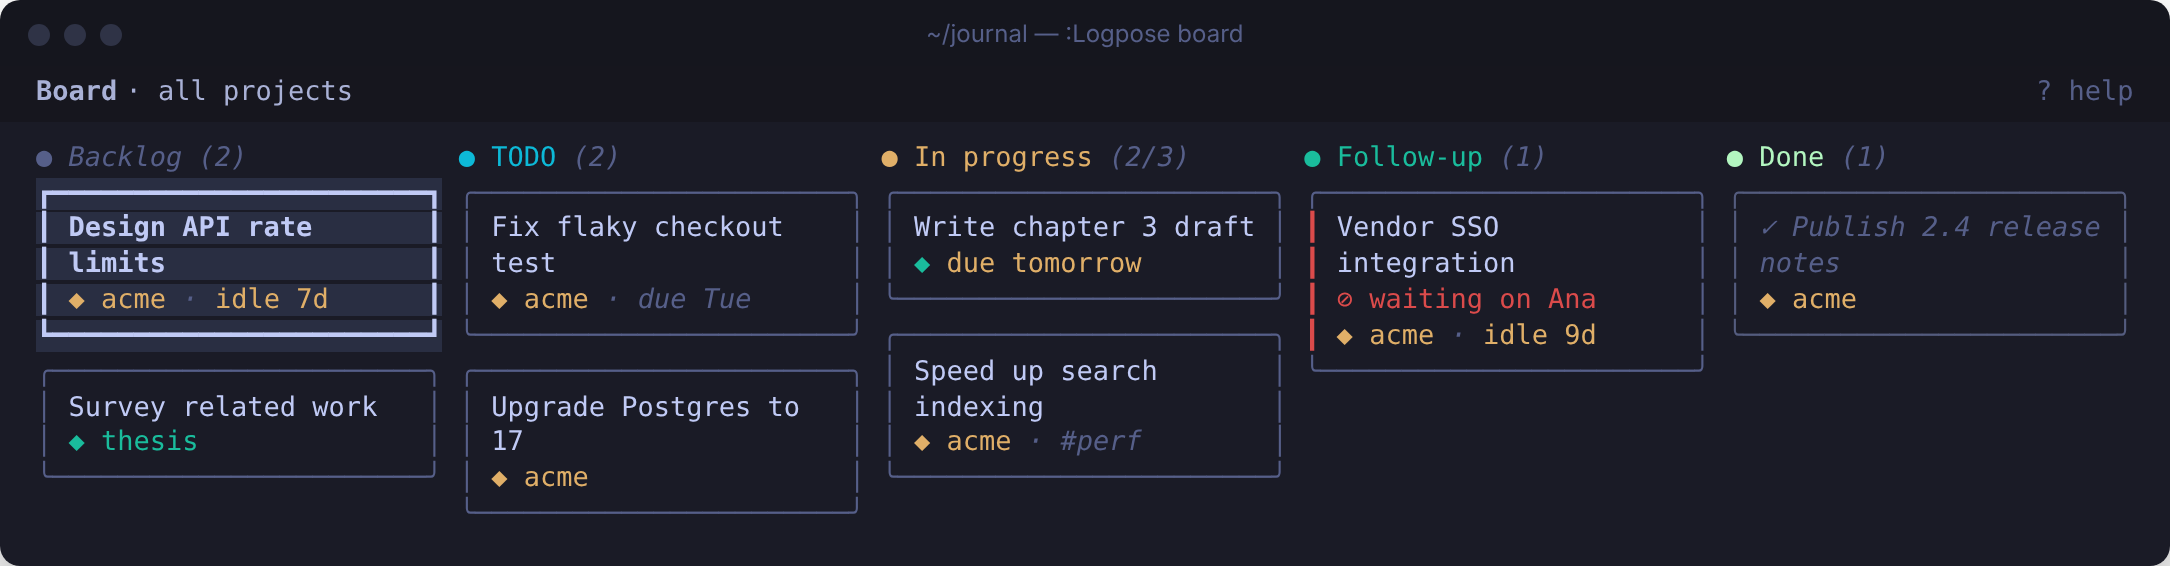
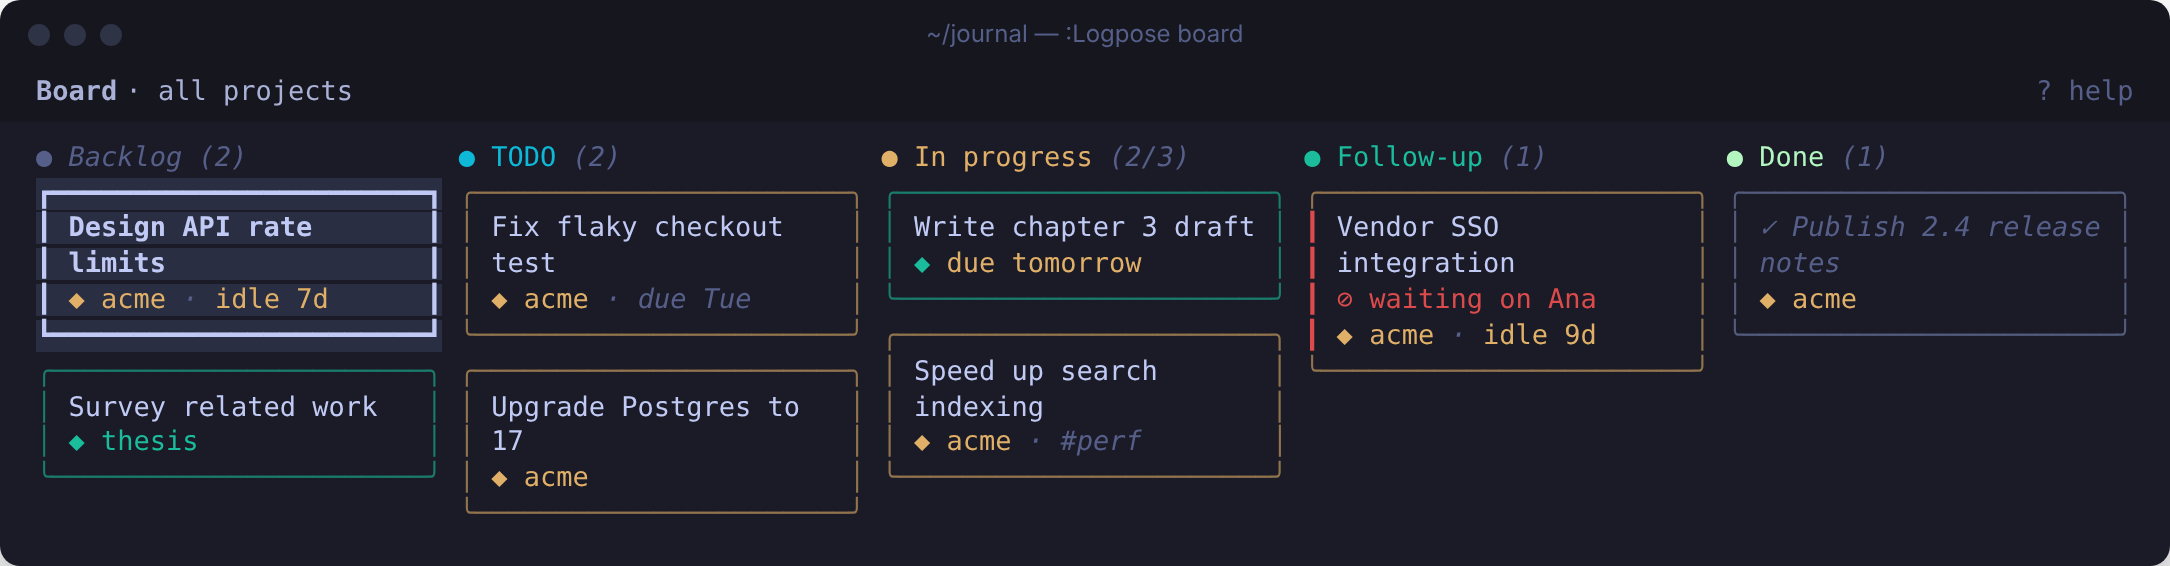
docs: project-tinted card borders

diff --git a/docs/SPEC.md b/docs/SPEC.md
@@ -64,7 +64,7 @@ capture/done, sprint-aware archives and reports.
 
 **Releases.** Annotated tags in `MAJOR.MINOR.PATCH` form (no `v` prefix). Each completed feature
 bumps the minor version (0.1.0 = F0+F1, 0.2.0 = F1.5, 0.3.0 = F1.6, 0.4.0 = F2, 0.5.0 = F2.1, 0.6.0 = F3, 0.7.0 = F4, 0.8.0 = F5, 0.9.0 = F6, 0.10.0 = O1, 0.11.0 = O2, 0.12.0 = O3, 0.13.0 = O4, 0.14.0 = O5, 0.15.0 = O6, 0.16.0 = F7,
-0.17.0 = F8, 0.18.0 = T1, 0.19.0 = live search and previews, 0.20.0 = B1, 0.21.0 = markdownlint-clean notes, 0.22.0 = timestamps, board look and delete, 0.23.0 = peek, scrolling columns, WIP limits and age, 0.23.1 = board resize fixes, 0.24.0 = command menu, statusline, board undo, 0.25.0 = today, keymaps preset, titled notifications, board extras, 0.25.1 = docs rewrite, 0.26.0 = project manager, project completion and board-follows-project fixes, 0.27.0 = project switcher, project pages as registry, moving tasks between projects, merging projects, 0.28.0 = switching opens the board, 0.28.1 = board and projects split into modules, tests 40× faster, 0.28.2 = caching for big journals, 0.29.0 = frontmatter editor, 0.30.0 = capture picks the project, form rework, bulk edits, 0.30.1 = completion menu closes after a choice, 0.30.2 = <CR> accepts from the menu, nvim-cmp off in the form, 0.31.0 = the edit form stays open after saving, 0.32.0 = card redesign, 0.32.1 = automatic project colours, no cursorline on the board); fixes bump the patch;
+0.17.0 = F8, 0.18.0 = T1, 0.19.0 = live search and previews, 0.20.0 = B1, 0.21.0 = markdownlint-clean notes, 0.22.0 = timestamps, board look and delete, 0.23.0 = peek, scrolling columns, WIP limits and age, 0.23.1 = board resize fixes, 0.24.0 = command menu, statusline, board undo, 0.25.0 = today, keymaps preset, titled notifications, board extras, 0.25.1 = docs rewrite, 0.26.0 = project manager, project completion and board-follows-project fixes, 0.27.0 = project switcher, project pages as registry, moving tasks between projects, merging projects, 0.28.0 = switching opens the board, 0.28.1 = board and projects split into modules, tests 40× faster, 0.28.2 = caching for big journals, 0.29.0 = frontmatter editor, 0.30.0 = capture picks the project, form rework, bulk edits, 0.30.1 = completion menu closes after a choice, 0.30.2 = <CR> accepts from the menu, nvim-cmp off in the form, 0.31.0 = the edit form stays open after saving, 0.32.0 = card redesign, 0.32.1 = automatic project colours, no cursorline on the board, 0.33.0 = borders tinted with the project's colour); fixes bump the patch;
 1.0.0 once M3 is done.
 
 ---
@@ -420,7 +420,9 @@ across everything, but meetings, tasks and reports can be kept apart and filtere
   `project.palette`/`auto_hl`): highlight groups every scheme defines, minus greys (low
   chroma) and hues within 20° of one already kept or of the board's meaning colours (error, warn,
   ok); handed out as a set over the journal's projects (hash slot, else the next free one) so they
-  differ while there are enough colours. The board window turns `cursorline` off.
+  differ while there are enough colours. The board window turns `cursorline` off. Since 0.33.0 card
+  borders default to `board.border = "project"`: `cards.project_border` mixes the project's
+  colour 60/40 with Normal's background (true colours; otherwise the project's colour itself).
 - **Bulk edits** (0.30.0): `v` marks cards on the board (`b.marked`, by file; pruned to visible
   cards on render; `V`/`<Esc>` clear). `H` `L` `1`–`9` `x` `b` `m` `e` act on every marked card as
   one undo step (`actions.targets`, `with_card`). `e` with marks, or `:'<,'>Logpose edit` in a

diff --git a/README.md b/README.md
@@ -203,7 +203,9 @@ Colour is kept for what needs your attention:
 
 On a board showing one project, cards leave the project out, since it's in the board's title.
 When a card is narrow, the date stays whole, the project name gets shorter and tags are left
-out. `board = { border = "column" }` gives each card its column's colour instead.
+out. Each card's border is tinted with its project's colour (cards without a project get a
+neutral one); `board = { border = "neutral" }` makes all borders one quiet colour, and
+`border = "column"` gives each card its column's colour.
 
 In progress has a work-in-progress limit of 3: its header shows `(2/3)`, and the count turns red
 above the limit.
@@ -750,7 +752,7 @@ board = {
   min_column_width = 24,   -- below this width, columns stack vertically
   stale_days = 7,          -- cards untouched this long fade
   collapsed = {},          -- column keys folded when the board opens, e.g. { "done" }
-  border = "neutral",      -- or "column": each card in its column's colour
+  border = "project",      -- card borders tinted with the project's colour; "neutral" or "column"
   icons = "unicode",       -- or "nerd" (Nerd Font) or "ascii"
   compact = false,         -- start with one-line cards (c toggles)
   lanes = false,           -- start with one row per project (s toggles)
